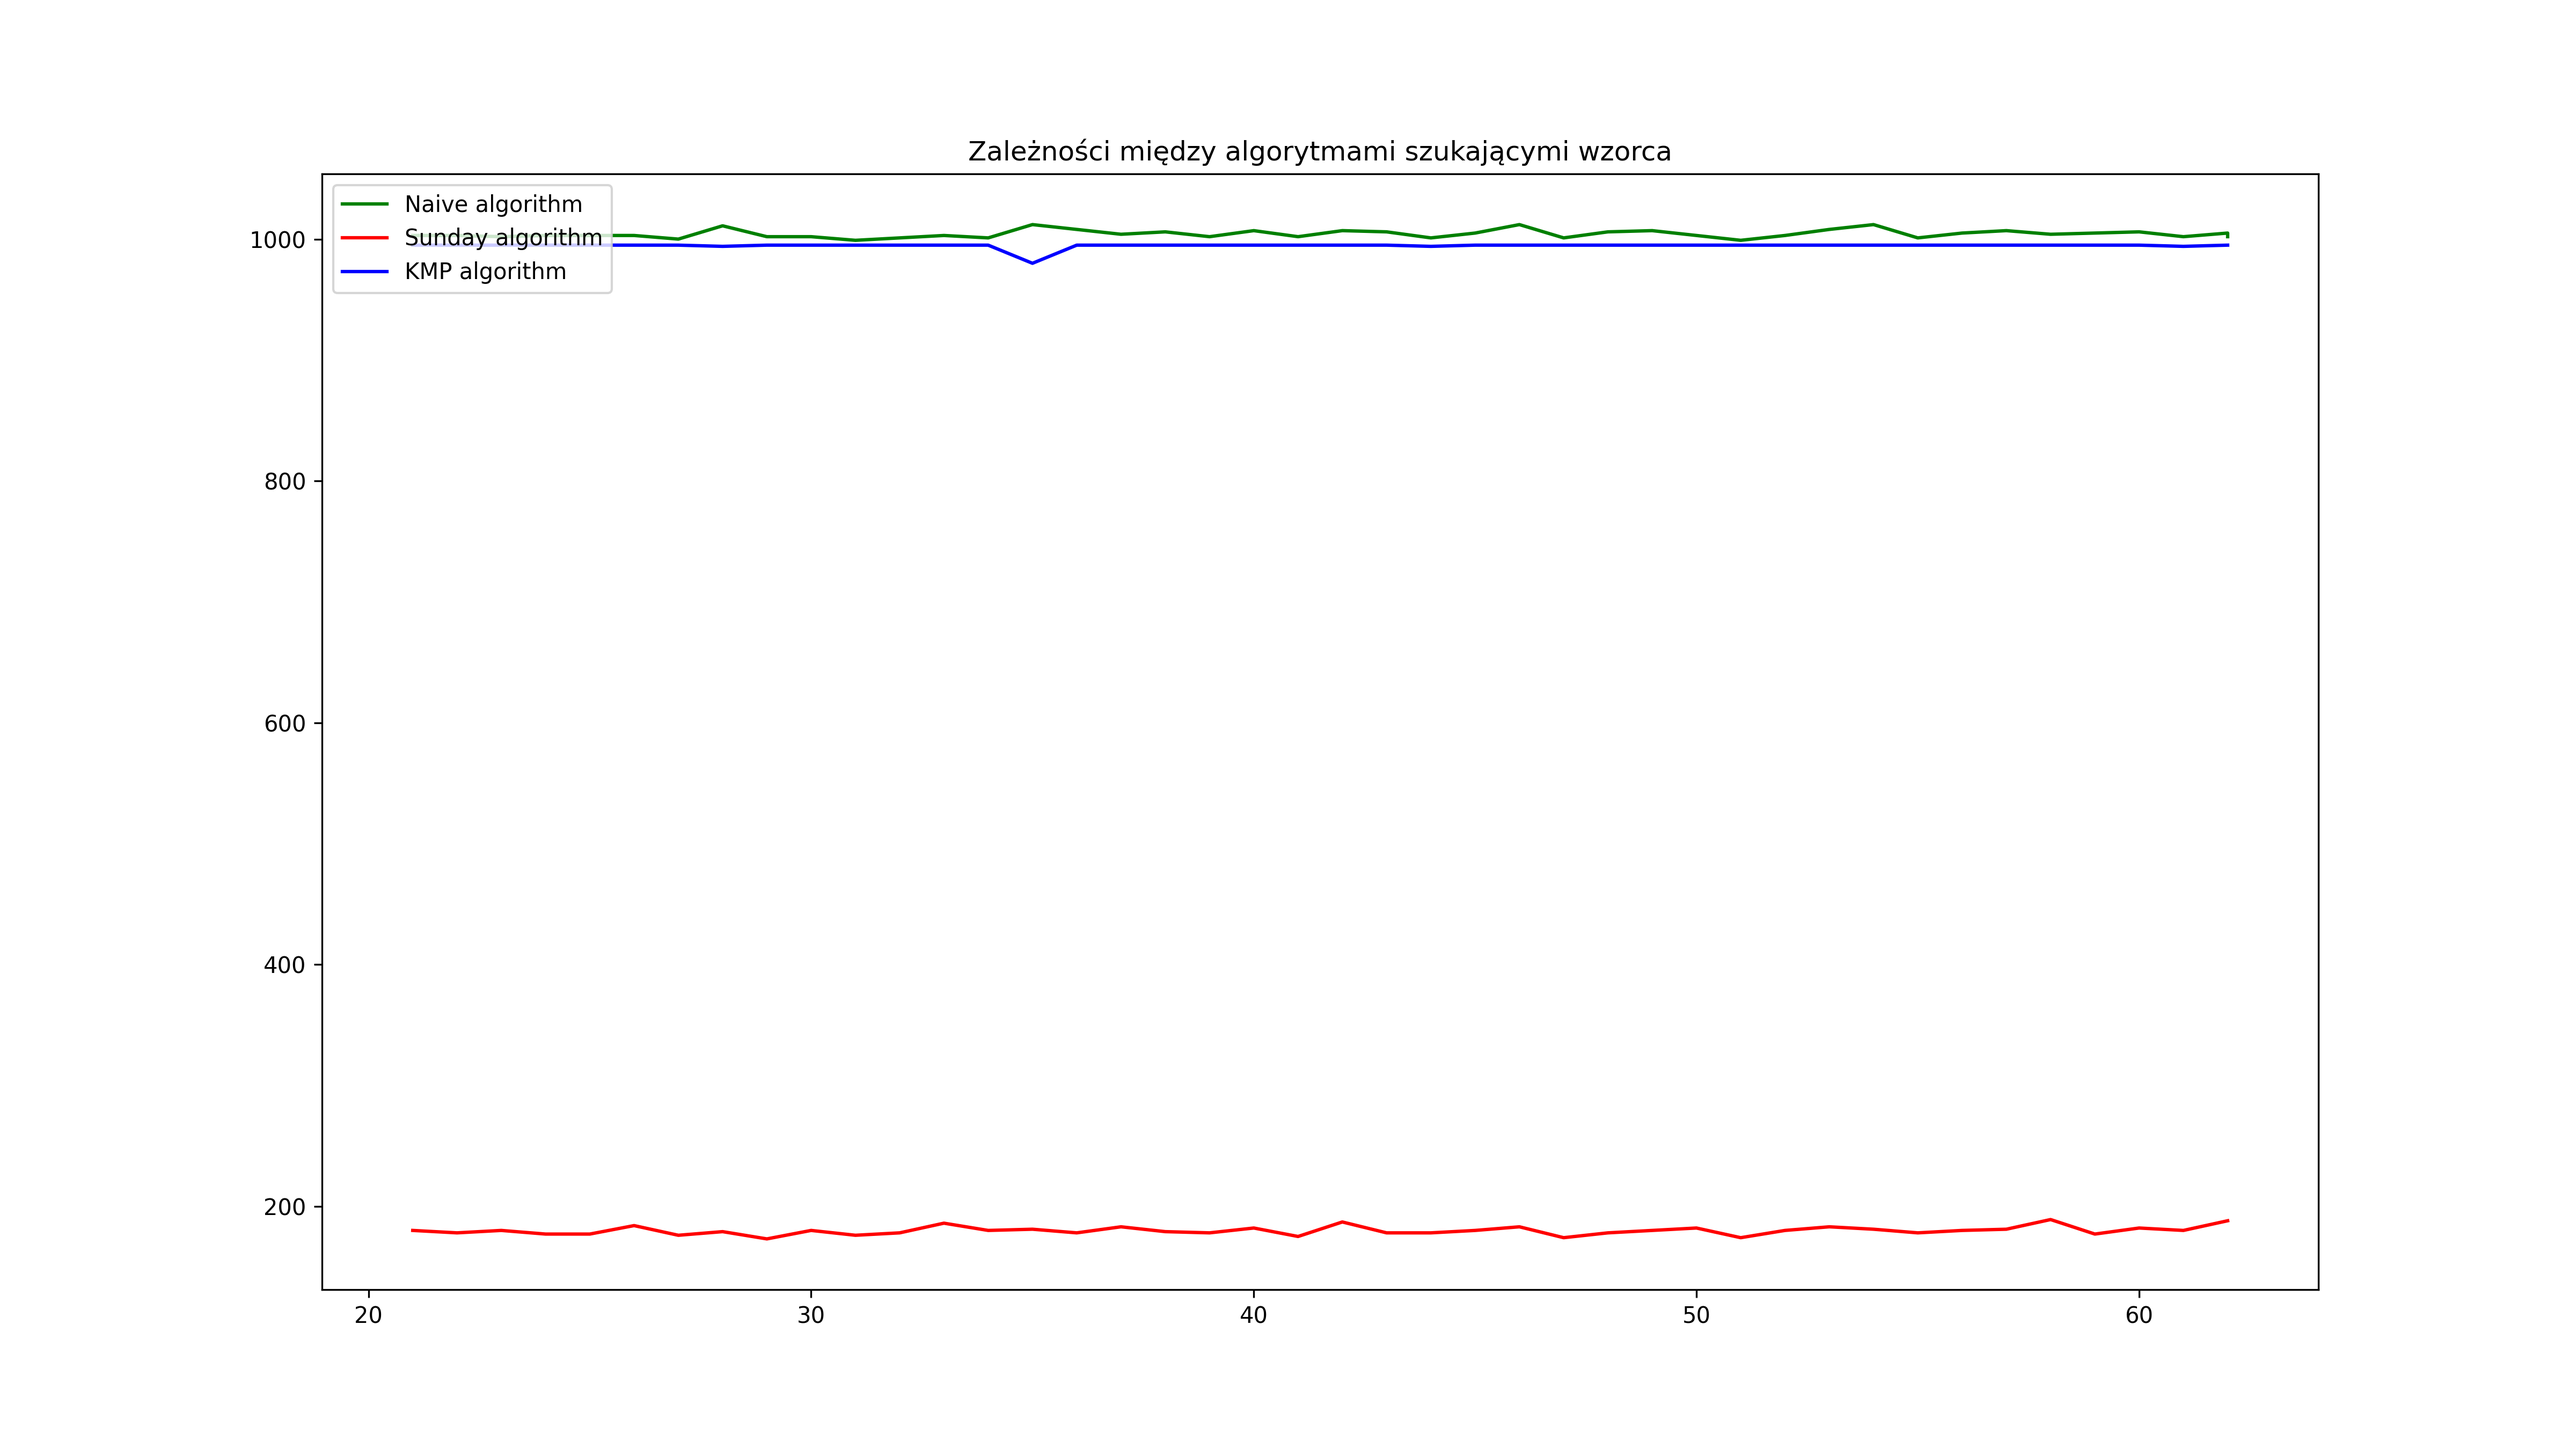
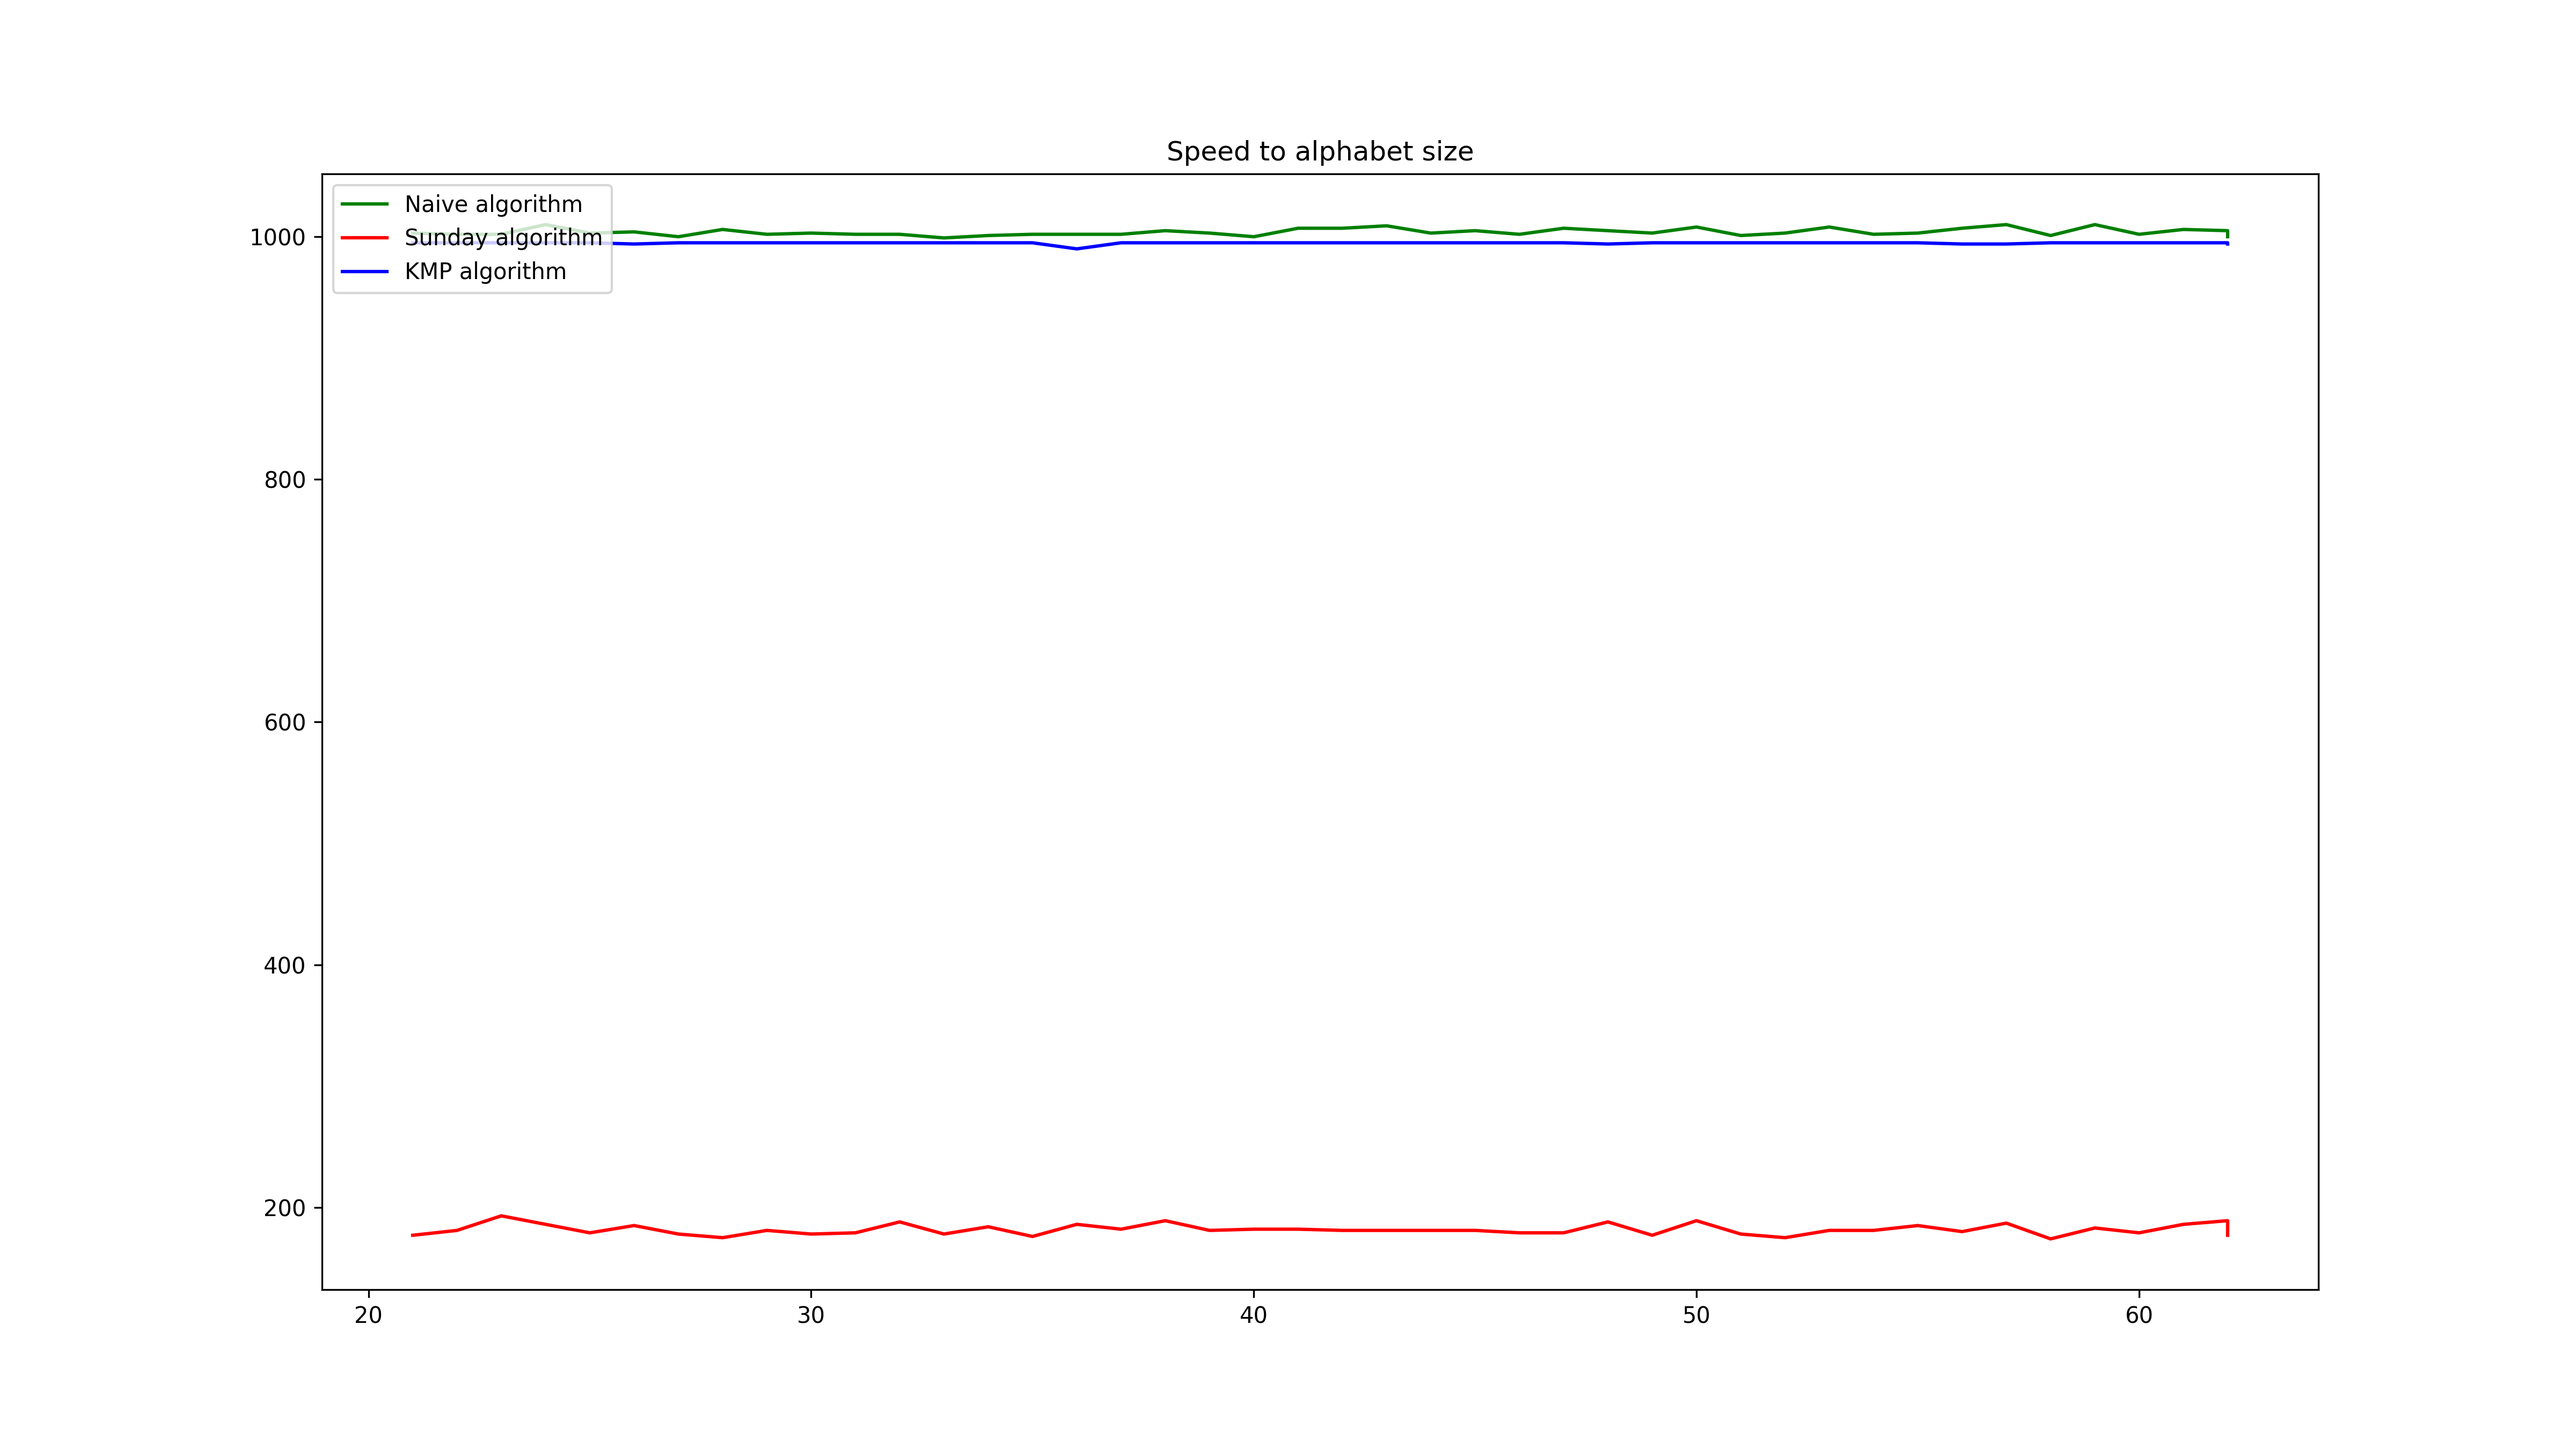
enables choosing chart type from console

diff --git a/pattern_in_text_comparison.py b/pattern_in_text_comparison.py
@@ -2,7 +2,7 @@ import matplotlib.pyplot as plt
 import string, random
 
 
-random.seed(random.randint(1, 1000000000)) # creating seed
+random.seed(random.randint(1, 1000000000))
 
 counter_sunday = 0
 counter_naive = 0
@@ -153,6 +153,11 @@ def createSearchedWord(text, size):
     return text[random_starting_point : random_starting_point + size]
 
 #==============================Program=========================================
+print("Choose chart type: ")
+print("[stts] Speed to text size")
+print("[stsw] Speed to searched word size")
+print("[stas] Speed to alphabet size")
+chartType = input("Chart type: ")
 
 alphabet = string.ascii_letters + string.digits
 T = ''
@@ -162,98 +167,97 @@ speed_to_text_size_chart = True
 speed_to_searched_word_size_chart = False
 speed_to_alphabet_size_chart = False
 
-if speed_to_text_size_chart:
-    naive_counter_list = []
-    sunday_counter_list = []
-    kmp_counter_list = []
-    text_length_list = []
-    current_text_size = 0
-    while current_text_size <= 1000:
-        current_text_size += 1
-        T = createText(T, alphabet, 1, 'append')
-        W = createSearchedWord(T, 3)
+match chartType:
+    case "stts":
+        naive_counter_list = []
+        sunday_counter_list = []
+        kmp_counter_list = []
+        text_length_list = []
+        current_text_size = 0
+        while current_text_size <= 1000:
+            current_text_size += 1
+            T = createText(T, alphabet, 1, 'append')
+            W = createSearchedWord(T, 3)
 
-        counter_naive, counter_sunday, counter_KMP = 0, 0, 0
-        naiveAlgorithm(T, W)
-        sundayAlgorithm(T, W)
-        KMPAlgorithm(T, W)
+            counter_naive, counter_sunday, counter_KMP = 0, 0, 0
+            naiveAlgorithm(T, W)
+            sundayAlgorithm(T, W)
+            KMPAlgorithm(T, W)
 
-        naive_counter_list.append(counter_naive)
-        sunday_counter_list.append(counter_sunday)
-        kmp_counter_list.append(counter_KMP)
+            naive_counter_list.append(counter_naive)
+            sunday_counter_list.append(counter_sunday)
+            kmp_counter_list.append(counter_KMP)
 
-        text_length_list.append(len(T))
+            text_length_list.append(len(T))
 
-    plt.title("Zależności między algorytmami szukającymi wzorca")
-    plt.plot(text_length_list, naive_counter_list, 'green', label='Naive algorithm')
-    plt.plot(text_length_list, sunday_counter_list, 'red', label='Sunday algorithm')
-    plt.plot(text_length_list, kmp_counter_list, 'blue', label='KMP algorithm')
-    plt.legend(loc='upper left')
-    fig = plt.gcf()
-    fig.set_size_inches(16, 9)
-    fig.savefig('speed_to_text_size_chart.png', dpi=300)
+        plt.title("Speed to text size")
+        plt.plot(text_length_list, naive_counter_list, 'green', label='Naive algorithm')
+        plt.plot(text_length_list, sunday_counter_list, 'red', label='Sunday algorithm')
+        plt.plot(text_length_list, kmp_counter_list, 'blue', label='KMP algorithm')
+        plt.legend(loc='upper left')
+        fig = plt.gcf()
+        fig.set_size_inches(16, 9)
+        fig.savefig('speed_to_text_size_chart.png', dpi=300)
 
+    case "stsw":
+        naive_counter_list = []
+        sunday_counter_list = []
+        kmp_counter_list = []
+        searched_word_length_list = []
+        current_searched_size = 0
+        T = createText(T, alphabet, 10_000, 'new')
+        while current_searched_size <= 1_000:
+            current_searched_size += 1
+            W = createSearchedWord(T, current_searched_size)
 
-if speed_to_searched_word_size_chart:
-    naive_counter_list = []
-    sunday_counter_list = []
-    kmp_counter_list = []
-    searched_word_length_list = []
-    current_searched_size = 0
-    T = createText(T, alphabet, 10_000, 'new')
-    while current_searched_size <= 1_000:
-        current_searched_size += 1
-        W = createSearchedWord(T, current_searched_size)
+            counter_naive, counter_sunday, counter_KMP = 0, 0, 0
+            naiveAlgorithm(T, W)
+            sundayAlgorithm(T, W)
+            KMPAlgorithm(T, W)
 
-        counter_naive, counter_sunday, counter_KMP = 0, 0, 0
-        naiveAlgorithm(T, W)
-        sundayAlgorithm(T, W)
-        KMPAlgorithm(T, W)
+            naive_counter_list.append(counter_naive)
+            sunday_counter_list.append(counter_sunday)
+            kmp_counter_list.append(counter_KMP)
+            searched_word_length_list.append(len(W))
 
-        naive_counter_list.append(counter_naive)
-        sunday_counter_list.append(counter_sunday)
-        kmp_counter_list.append(counter_KMP)
-        searched_word_length_list.append(len(W))
+        plt.title("Speed to searched word size")
+        plt.plot(searched_word_length_list, naive_counter_list, 'green', label='Naive algorithm')
+        plt.plot(searched_word_length_list, sunday_counter_list, 'red', label='Sunday algorithm')
+        plt.plot(searched_word_length_list, kmp_counter_list, 'blue', label='KMP algorithm')
+        plt.legend(loc='upper left')
+        fig = plt.gcf()
+        fig.set_size_inches(16, 9)
+        fig.savefig('speed_to_searched_word_size_chart.png', dpi=300)
+    
+    case "stas":
+        naive_counter_list = []
+        sunday_counter_list = []
+        kmp_counter_list = []
+        alphabet_length_list = []
+        current_alphabet_size = 20
 
-    plt.title("Zależności między algorytmami szukającymi wzorca")
-    plt.plot(searched_word_length_list, naive_counter_list, 'green', label='Naive algorithm')
-    plt.plot(searched_word_length_list, sunday_counter_list, 'red', label='Sunday algorithm')
-    plt.plot(searched_word_length_list, kmp_counter_list, 'blue', label='KMP algorithm')
-    plt.legend(loc='upper left')
-    fig = plt.gcf()
-    fig.set_size_inches(16, 9)
-    fig.savefig('speed_to_searched_word_size_chart.png', dpi=300)
+        while current_alphabet_size <= len(alphabet):
+            current_alphabet_size += 1
+            current_alphabet = alphabet[0 : current_alphabet_size]
 
+            T = createText(T, alphabet, 500, 'new')
+            W = createSearchedWord(T, 5)
 
-if speed_to_alphabet_size_chart:
-    naive_counter_list = []
-    sunday_counter_list = []
-    kmp_counter_list = []
-    alphabet_length_list = []
-    current_alphabet_size = 20
+            counter_naive, counter_sunday, counter_KMP = 0, 0, 0
+            naiveAlgorithm(T, W)
+            sundayAlgorithm(T, W)
+            KMPAlgorithm(T, W)
 
-    while current_alphabet_size <= len(alphabet):
-        current_alphabet_size += 1
-        current_alphabet = alphabet[0 : current_alphabet_size]
+            naive_counter_list.append(counter_naive)
+            sunday_counter_list.append(counter_sunday)
+            kmp_counter_list.append(counter_KMP)
+            alphabet_length_list.append(len(current_alphabet))
 
-        T = createText(T, alphabet, 500, 'new')
-        W = createSearchedWord(T, 5)
-
-        counter_naive, counter_sunday, counter_KMP = 0, 0, 0
-        naiveAlgorithm(T, W)
-        sundayAlgorithm(T, W)
-        KMPAlgorithm(T, W)
-
-        naive_counter_list.append(counter_naive)
-        sunday_counter_list.append(counter_sunday)
-        kmp_counter_list.append(counter_KMP)
-        alphabet_length_list.append(len(current_alphabet))
-
-    plt.title("Zależności między algorytmami szukającymi wzorca")
-    plt.plot(alphabet_length_list, naive_counter_list, 'green', label='Naive algorithm')
-    plt.plot(alphabet_length_list, sunday_counter_list, 'red', label='Sunday algorithm')
-    plt.plot(alphabet_length_list, kmp_counter_list, 'blue', label='KMP algorithm')
-    plt.legend(loc='upper left')
-    fig = plt.gcf()
-    fig.set_size_inches(16, 9)
-    fig.savefig('speed_to_alphabet_size_chart.png', dpi=300)
+        plt.title("Speed to alphabet size")
+        plt.plot(alphabet_length_list, naive_counter_list, 'green', label='Naive algorithm')
+        plt.plot(alphabet_length_list, sunday_counter_list, 'red', label='Sunday algorithm')
+        plt.plot(alphabet_length_list, kmp_counter_list, 'blue', label='KMP algorithm')
+        plt.legend(loc='upper left')
+        fig = plt.gcf()
+        fig.set_size_inches(16, 9)
+        fig.savefig('speed_to_alphabet_size_chart.png', dpi=300)
